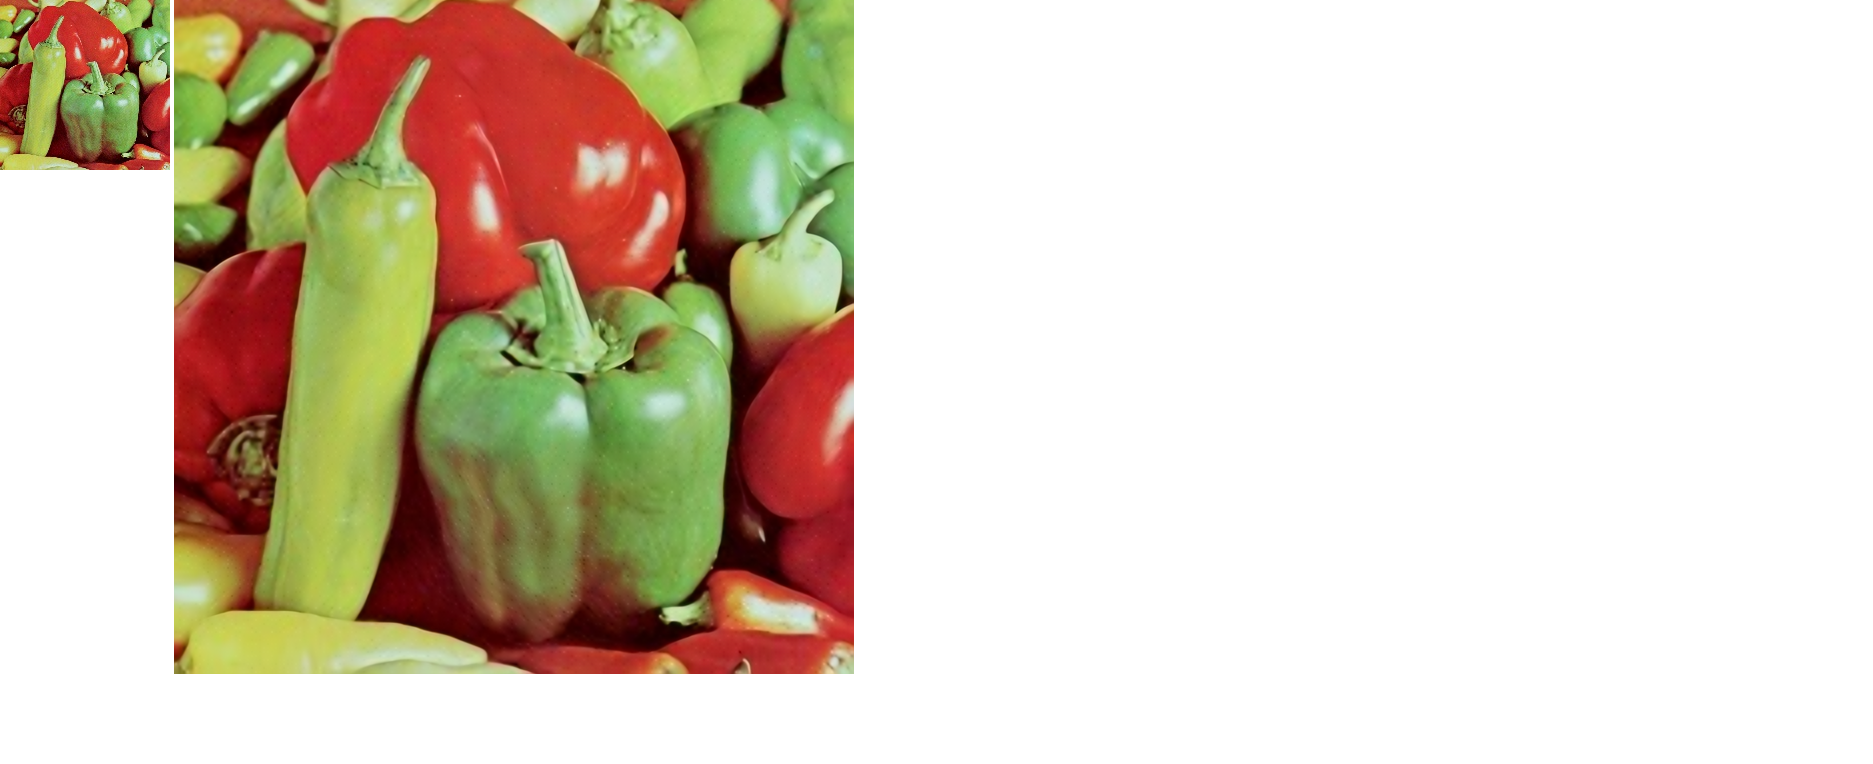
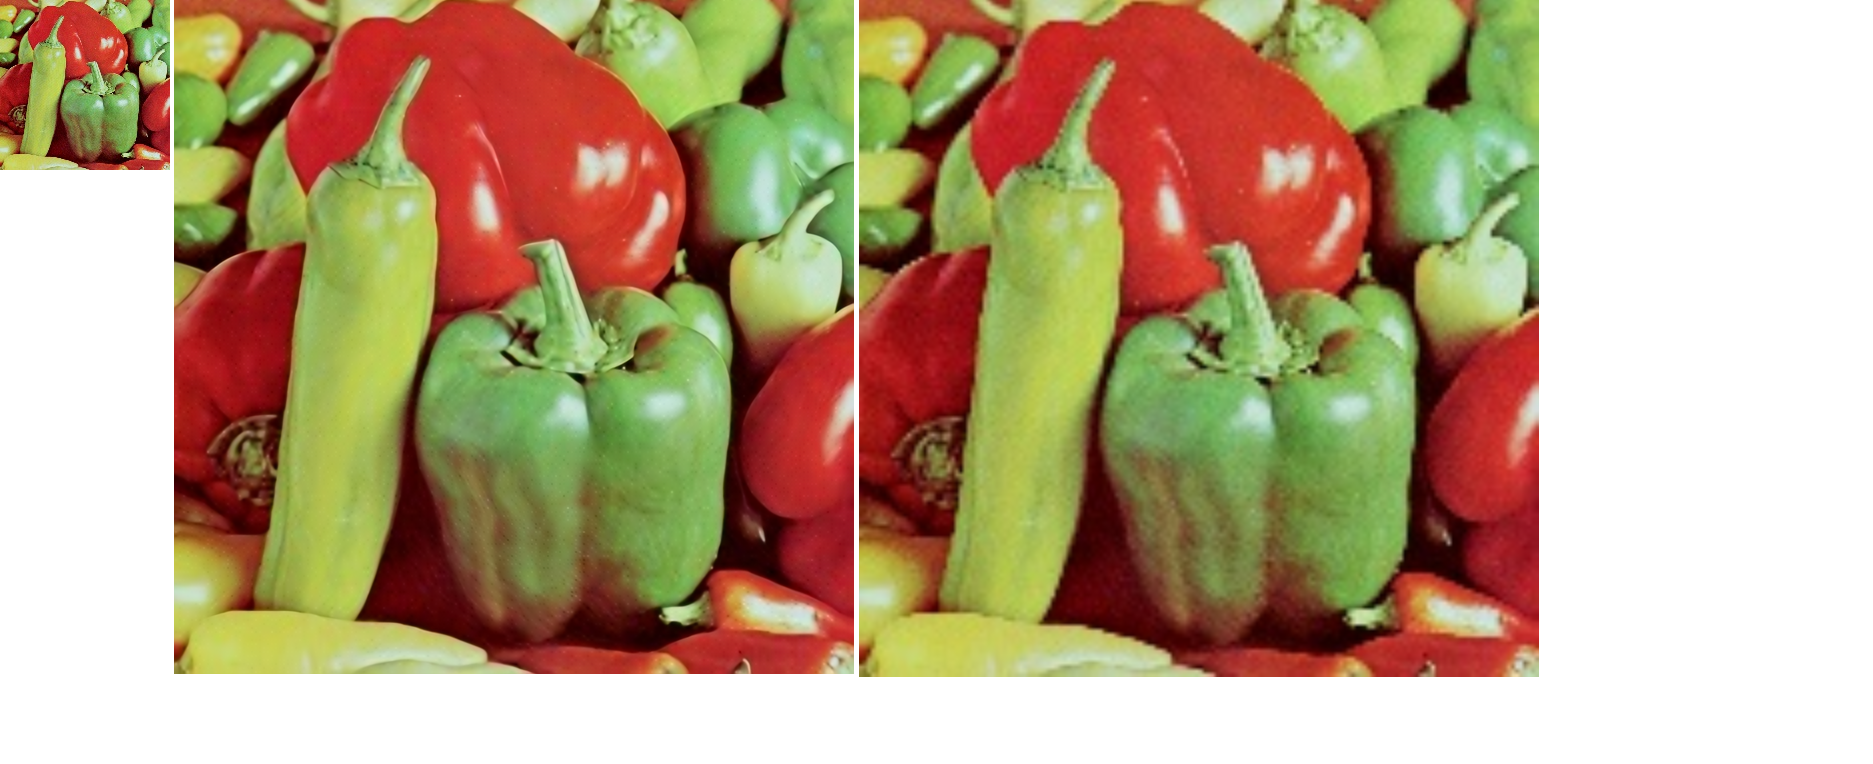
update to comparison

diff --git a/sr_image_test.py b/sr_image_test.py
@@ -13,3 +13,24 @@ sr.setModel("edsr", 4)
 result = sr.upsample(image)
 # Save the image
 cv2.imwrite("./upscaled.png", result)
+cv2.imshow( " Resized image (CNN) " , result)
+cv2.waitKey(0)
+cv2.destroyAllWindows()
+ 
+img = image 
+ 
+print ( ' Original Dimensions : ' ,img.shape)
+ 
+
+width = int(img.shape[1] *4 )
+height = int(img.shape[0] * 4 )
+dim = (width, height)
+ # resize image 
+resized = cv2.resize(img, dim) #default inter_linear
+ 
+print ( ' Resized Dimensions : ' ,resized.shape)
+ # Save the image
+cv2.imwrite("./resized.png", resized)
+cv2.imshow( " Resized image (interpolation) " , resized)
+cv2.waitKey(0)
+cv2.destroyAllWindows()
